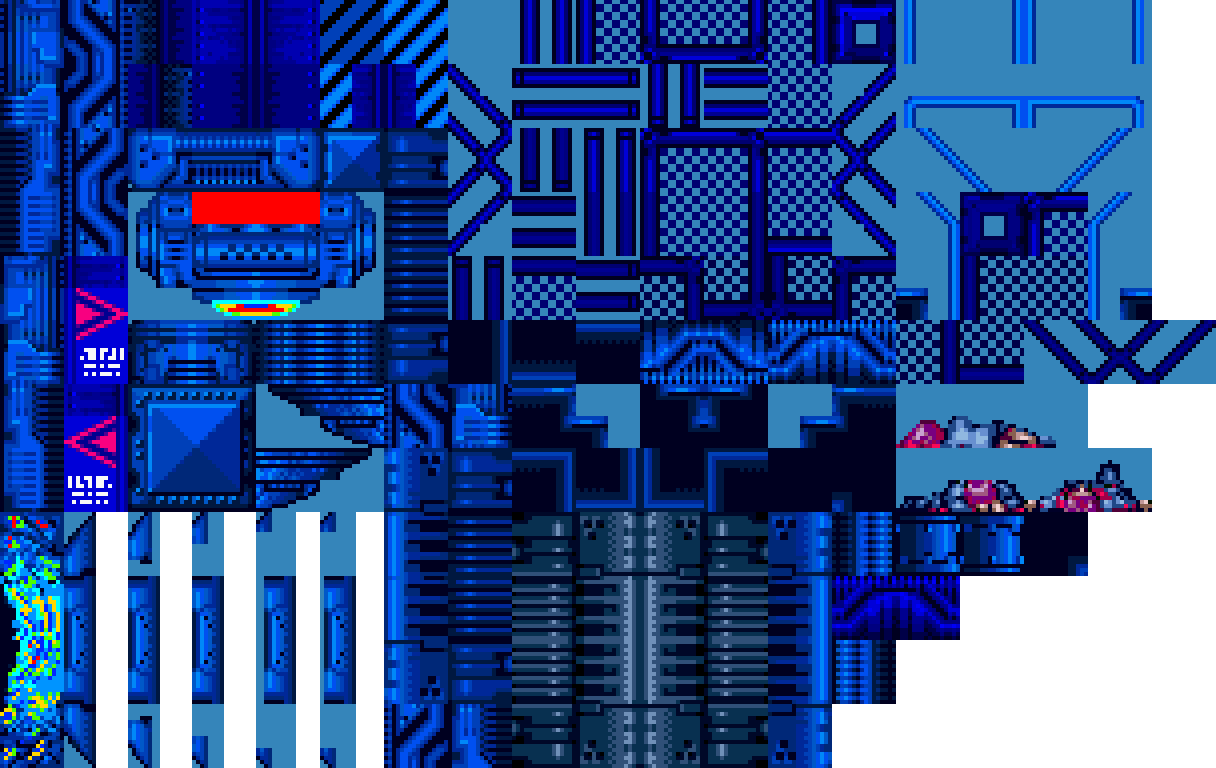
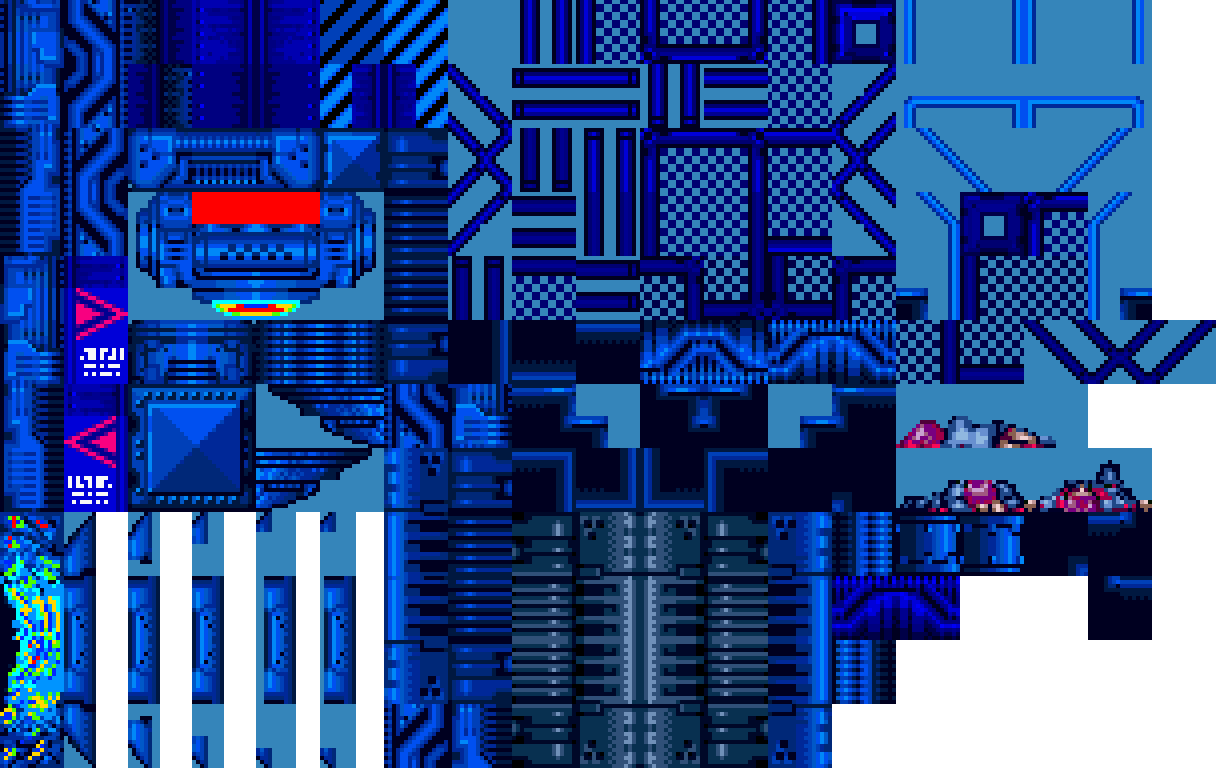
lil fixes plus gamemaps

Changed region(s): [[0.875, 0.6562, 0.9688, 0.8438]]

diff --git a/Tile.js b/Tile.js
@@ -1,6 +1,8 @@
 function Tile(descr) {
     this.setup(descr);
     this.setTile();
+
+
 }
 
 
@@ -12,7 +14,7 @@ Tile.prototype.halfWidth = 32;
 Tile.prototype.halfHeight = 32;
 
 //replacement for sprite data, until then
-Tile.prototype.colour = 'Black';
+Tile.prototype.colour = 'white';
 Tile.prototype.shape = "Rect";
 
 Tile.prototype.setTile = function(){
@@ -297,14 +299,14 @@ Tile.prototype.setTile = function(){
         // 256,448
     }
     else if(this.id ==='D/'){
-        this.collidable = true;
+        this.collidable = false;
 
         this.sx = 320;
         this.sy = 0;
         // 320,0
     }
     else if(this.id ==='ML/'){
-        this.collidable = true;
+        this.collidable = false;
 
         this.sx = 320;
         this.sy = 64;
@@ -353,14 +355,14 @@ Tile.prototype.setTile = function(){
         // 320,448
     }
     else if(this.id ==='L/'){
-        this.collidable = true;
+        this.collidable = false;
 
         this.sx = 384;
         this.sy = 0;
         //384,0
     }
     else if(this.id ==='MR/'){
-        this.collidable = true;
+        this.collidable = false;
 
         this.sx = 384;
         this.sy = 64;
@@ -478,7 +480,7 @@ Tile.prototype.setTile = function(){
         this.sy = 192;
         // 512,192
     }
-    else if(this.id ==='-#DD'){
+    else if(this.id ==='-#D'){
         this.collidable = false;
 
         this.sx = 512;
@@ -506,13 +508,33 @@ Tile.prototype.setTile = function(){
         this.sy = 448;
         // 512,448
     }
-    else if(this.id ==='DL'){
+    else if(this.id ==='DL1'){
         this.collidable = true;
 
         this.sx = 512;
         this.sy = 512;
         // 512,512
-        //width 128, height 256
+    }
+    else if(this.id ==='DL2'){
+        this.collidable = true;
+
+        this.sx = 512;
+        this.sy = 576;
+        // 512,512
+    }
+    else if(this.id ==='DL3'){
+        this.collidable = true;
+
+        this.sx = 512;
+        this.sy = 640;
+        // 512,512
+    }
+    else if(this.id ==='DL4'){
+        this.collidable = true;
+
+        this.sx = 512;
+        this.sy = 704;
+        // 512,512
     }
     else if(this.id ==='|#L'){
         this.collidable = false;
@@ -569,6 +591,30 @@ Tile.prototype.setTile = function(){
         this.sx = 576;
         this.sy = 448;
         // 576,448
+    }
+    else if(this.id ==='DL5'){
+        this.collidable = true;
+
+        this.sx = 576;
+        this.sy = 512;
+    }
+    else if(this.id ==='DL6'){
+        this.collidable = true;
+
+        this.sx = 576;
+        this.sy = 576;
+    }
+    else if(this.id ==='DL7'){
+        this.collidable = true;
+
+        this.sx = 576;
+        this.sy = 640;
+    }
+    else if(this.id ==='DL8'){
+        this.collidable = true;
+
+        this.sx = 576;
+        this.sy = 704;
     }
     else if(this.id ==='|_L'){
         this.collidable = false;
@@ -631,12 +677,26 @@ Tile.prototype.setTile = function(){
 
         this.sx = 640;
         this.sy = 512;
-        this.width = 128;
-        this.halfWidth = 64;
-        this.height = 256;
-        this.halfHeight = 128;
         // 640,512
-        //width 128, height 256
+    }
+    else if(this.id ==='DR2'){
+        this.collidable = true;
+
+        this.sx = 640;
+        this.sy = 576;
+    }
+
+    else if(this.id ==='DR3'){
+        this.collidable = true;
+
+        this.sx = 640;
+        this.sy = 640;
+    }
+    else if(this.id ==='DR4'){
+        this.collidable = true;
+
+        this.sx = 640;
+        this.sy = 704;
     }
     else if(this.id ==='_|L'){
         this.collidable = false;
@@ -680,7 +740,7 @@ Tile.prototype.setTile = function(){
         this.sy = 320;
         // 704,320
     }
-    else if(this.id ==='STR'){
+    else if(this.id ==='StBR'){
         this.collidable = true;
 
         this.sx = 704;
@@ -693,6 +753,33 @@ Tile.prototype.setTile = function(){
         this.sx = 704;
         this.sy = 448;
         // 704,448
+    }
+
+    else if(this.id ==='DR5'){
+        this.collidable = true;
+
+        this.sx = 704;
+        this.sy = 512;
+        // 640,512
+    }
+    else if(this.id ==='DR6'){
+        this.collidable = true;
+
+        this.sx = 704;
+        this.sy = 576;
+    }
+
+    else if(this.id ==='DR7'){
+        this.collidable = true;
+
+        this.sx = 704;
+        this.sy = 640;
+    }
+    else if(this.id ==='DR8'){
+        this.collidable = true;
+
+        this.sx = 704;
+        this.sy = 704;
     }
     else if(this.id ==='#|L'){
         this.collidable = false;
@@ -820,7 +907,7 @@ Tile.prototype.setTile = function(){
         this.sy = 320;
         // 832,320
     }
-    else if(this.id ==='StBR'){
+    else if(this.id ==='STR'){
         this.collidable = true;
         this.sx = 832;
         this.sy = 384;
@@ -850,7 +937,7 @@ Tile.prototype.setTile = function(){
         this.sy = 640;
 896    // 832,640
     }
-    else if(this.id ==='[R'){
+    else if(this.id ==='[L'){
         this.collidable = false;
         this.sx = 896;
         this.sy = 0;
@@ -863,7 +950,7 @@ Tile.prototype.setTile = function(){
         this.sy = 64;
         // 896,64
     }
-    else if(this.id ==='!FT'){
+    else if(this.id ==='!FB'){
         this.collidable = false;
         this.sx = 896;
         this.sy = 128;
@@ -911,7 +998,7 @@ Tile.prototype.setTile = function(){
         this.sy = 640;
         // 896,640
     }
-    else if(this.id ==='[L'){
+    else if(this.id ==='[R'){
         this.collidable = false;
         this.sx = 960;
         this.sy = 0;
@@ -923,7 +1010,7 @@ Tile.prototype.setTile = function(){
         this.sy = 64;
         // 960,64
     }
-    else if(this.id ==='!FB'){
+    else if(this.id ==='!FT'){
         this.collidable = false;
         this.sx = 960;
         this.sy = 128;
@@ -965,7 +1052,7 @@ Tile.prototype.setTile = function(){
         this.sy = 512;
         //960,512
     }
-    else if(this.id ===']R'){
+    else if(this.id ===']L'){
         this.collidable = false;
         this.sx = 1024;
         this.sy = 0;
@@ -977,7 +1064,7 @@ Tile.prototype.setTile = function(){
         this.sy = 64;
         // 1024,64
     }
-    else if(this.id ==='/FB'){
+    else if(this.id ==='/FT'){
         this.collidable = false;
         this.sx = 1024;
         this.sy = 128;
@@ -1019,7 +1106,7 @@ Tile.prototype.setTile = function(){
         this.sy = 512;
         // 1024,512
     }
-    else if(this.id ===']L'){
+    else if(this.id ===']R'){
         this.collidable = false;
         this.sx = 1088;
         this.sy = 0;
@@ -1031,7 +1118,7 @@ Tile.prototype.setTile = function(){
         this.sy = 64;
         // 1088,64
     }
-    else if(this.id ==='/FT'){
+    else if(this.id ==='/FB'){
         this.collidable = false;
         this.sx = 1088;
         this.sy = 128;
@@ -1066,6 +1153,22 @@ Tile.prototype.setTile = function(){
         this.sx = 1088;
         this.sy = 448;
         // 1088, 448
+    }
+    else if(this.id ==='BBsR'){
+        this.collidable = true;
+        this.sx = 1088;
+        this.sy = 512;
+    }
+    else if(this.id ==='BBsL'){
+        this.collidable = true;
+        this.sx = 1088;
+        this.sy = 576;
+    }
+
+    else if(this.id ==='#r'){
+        this.collidable = false;
+        this.sx = 1152;
+        this.sy = 0;
     }
     else{
         return false;

diff --git a/Map.js b/Map.js
@@ -12,7 +12,7 @@ var Map = {
         ['#','#','#','WL3','PL1','EL','L/','0','||ML','SP1','SP2','SP3','SP4','||ML','0','L/','ER','PR1','WL3','#','#','#'],
         ['#','#','#','WL4','PL2','EL','L/','!!L','||BL','SP5','SP6','SP7','SP8','||BL','//R','L/','ER','PR2','WL4','#','#','#'],
         ['#','#','#','WL1','PL1','EL','MLL','XL','OL','_LL','_MD','_MD','_RL','OL','XL','MRL','ER','PR1','WL1','#','#','#'],
-        ['#','#','#','WL2','PL2','EL','MLL','//L','||TL','|-L','-#DL','-#DL','-|L','||TL','!!R','MRL','ER','PR2','WL2','#','#','#'],
+        ['#','#','#','WL2','PL2','EL','MLL','//L','||TL','|-L','-#D','-#D','-|L','||TL','!!R','MRL','ER','PR2','WL2','#','#','#'],
         ['#','#','#','WL3','PL1','EL','MLL','0','||ML','|#L','#L','#L','#|L','||ML','0','MRL','ER','PR1','WL3','#','#','#'],
         ['#','#','#','WL4','PL2','EL','MLL','0','||ML','|#L','#L','#L','#|L','||ML','0','MRL','ER','PR2','WL4','#','#','#'],
         ['#','#','#','WL1','PL1','PL','PM','PM','PR','|#L','#L','#L','#|L','PL','PM','PM','PR','PR1','WL1','#','#','#'],
@@ -24,7 +24,7 @@ var Map = {
         ['#','#','#','WL3','PL1','EL','MLL','0','||ML','PL','PM','PM','PR','||ML','0','MRL','ER','PR1','WL3','#','#','#'],
         ['#','#','#','WL4','PL2','EL','MLL','0','||ML','|#DL','#L','#L','#|DL','||ML','0','MRL','ER','PR2','WL4','#','#','#'],
         ['#','#','#','WL1','PL1','EL','MLL','0','||ML','|#DL','#L','#L','#|DL','||ML','0','MRL','ER','PR1','WL1','#','#','#'],
-        ['#','#','#','WL2','PL2','EL','MLL','!!L','||BL','|_L','_#L','_#L','_|BL','||BL','//R','MRL','ER','PR2','WL2','#','#','#'],
+        ['#','#','#','WL2','PL2','EL','MLL','!!L','||BL','|_L','_#L','_#L','_|L','||BL','//R','MRL','ER','PR2','WL2','#','#','#'],
         ['#','#','#','WL3','PL1','EL','MLL','XL','OL','_LL','_ML','_ML','_RL','OL','XR','MRL','ER','PR1','WL3','#','#','#'],
         ['#','#','#','WL4','PL2','EL','MLL','//L','||TL','|-L','-#L','-#L','-|L','||TL','!!R','MRL','ER','PR2','WL4','#','#','#'],
         ['#','#','#','WL1','PL1','EL','MLL','0','||ML','|#L','#L','#L','#|L','PL','PM','PM','PR','PR1','WL1','#','#','#'],
